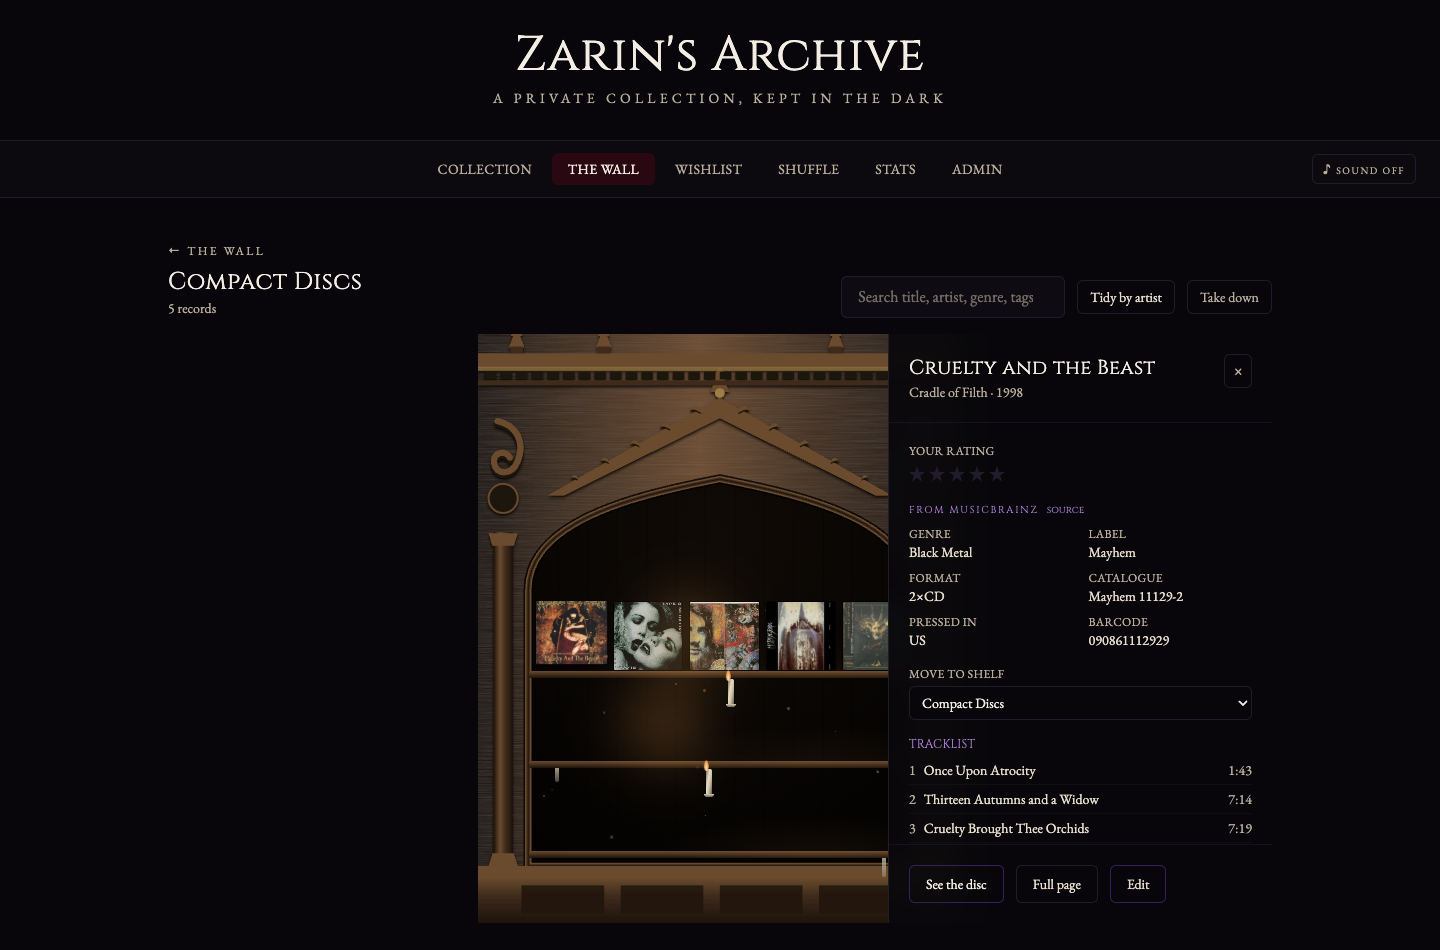
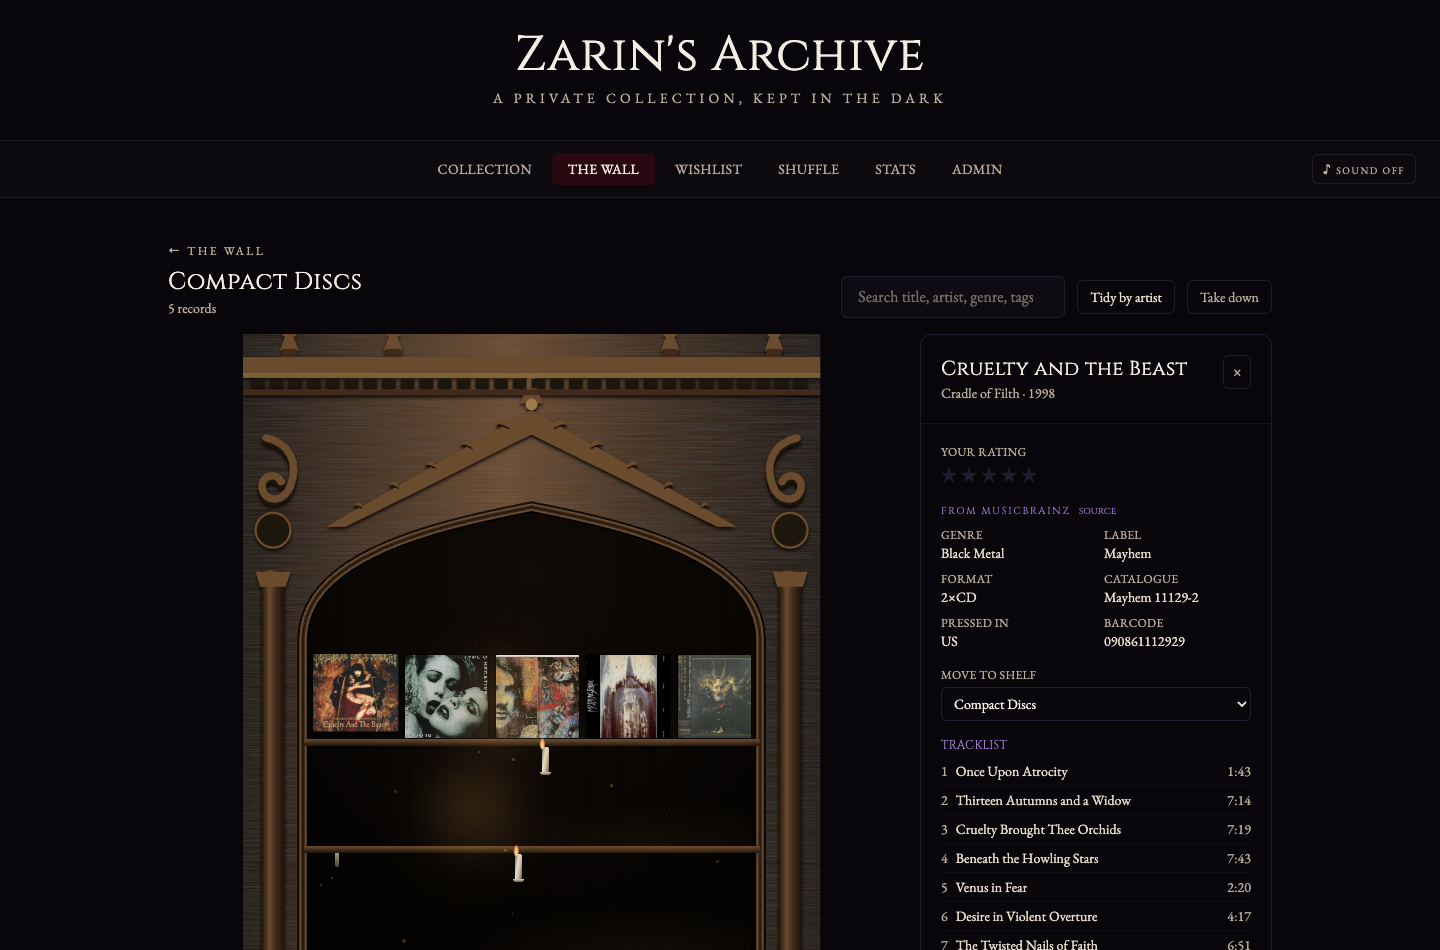
Give the case the room, and put the wall in the same one
The bookcase sat centred in a mostly empty page with the details panel
covering it whenever a record was opened — which hides the very thing you
were choosing from. The case now takes the left and grows into the height
it has, with the details beside it, sticky, and a summary of the shelf in
that column when nothing is selected so it is never simply blank.

The wall runs the full width of the window rather than sitting inset with
margins either side, which made it a poster of a wall. Three larger niches
to a row instead of four small ones: at the old size you could not see what
was standing in them.

The niches also wear the active theme now. They were purple while the
shelves behind them were oak, so stepping into one changed rooms.

diff --git a/src/components/wall/ShelfAlcove.tsx b/src/components/wall/ShelfAlcove.tsx
@@ -2,6 +2,7 @@ import { motion } from 'framer-motion'
 import { Link } from 'react-router-dom'
 import { safeImageUrl } from '../../data/safeUrl'
 import type { CollectionItem } from '../../data/schema'
+import type { ShelfTheme } from '../../scenes/themes'
 import { ARCH_CLIP_ID, ARCH_INNER_CLIP_ID } from './ArchClip'
 
 interface ShelfAlcoveProps {
@@ -10,6 +11,8 @@ interface ShelfAlcoveProps {
   count: number
   items: CollectionItem[]
   index: number
+  /** The wall wears the same room as the shelves behind it. */
+  theme: ShelfTheme
 }
 
 /**
@@ -20,9 +23,9 @@ interface ShelfAlcoveProps {
  * single flat cutout reads as a sticker, while the offset between them gives
  * the wall its thickness.
  */
-export function ShelfAlcove({ to, name, count, items, index }: ShelfAlcoveProps) {
-  const standing = items.slice(0, 6)
-  const glow = items.find((item) => item.dominantColor)?.dominantColor ?? '#8a5cc0'
+export function ShelfAlcove({ to, name, count, items, index, theme }: ShelfAlcoveProps) {
+  const standing = items.slice(0, 5)
+  const glow = items.find((item) => item.dominantColor)?.dominantColor ?? theme.candleColor
 
   return (
     <motion.div
@@ -33,9 +36,13 @@ export function ShelfAlcove({ to, name, count, items, index }: ShelfAlcoveProps)
       <Link to={to} className="group block focus:outline-none" aria-label={`Open the ${name} shelf`}>
         {/* Outer stone surround */}
         <div
-          className="relative aspect-[5/6] bg-gradient-to-b from-[#3b2d4c] via-[#2a2038] to-[#1b1426] p-[7px] transition-shadow duration-500 group-hover:shadow-[0_0_38px_-10px_var(--alcove-glow)] group-focus-visible:shadow-[0_0_38px_-10px_var(--alcove-glow)]"
+          className="relative aspect-[4/5] p-[7px] transition-shadow duration-500 group-hover:shadow-[0_0_38px_-10px_var(--alcove-glow)] group-focus-visible:shadow-[0_0_38px_-10px_var(--alcove-glow)]"
           style={
-            { clipPath: `url(#${ARCH_CLIP_ID})`, '--alcove-glow': glow } as React.CSSProperties
+            {
+              clipPath: `url(#${ARCH_CLIP_ID})`,
+              '--alcove-glow': glow,
+              background: `linear-gradient(180deg, ${theme.woodLight} 0%, ${theme.wood} 55%, ${theme.woodDark} 100%)`,
+            } as React.CSSProperties
           }
         >
           {/* Inner reveal — the recess itself */}
@@ -43,7 +50,12 @@ export function ShelfAlcove({ to, name, count, items, index }: ShelfAlcoveProps)
             className="relative h-full w-full overflow-hidden"
             style={{ clipPath: `url(#${ARCH_INNER_CLIP_ID})` }}
           >
-            <div className="absolute inset-0 bg-[radial-gradient(ellipse_at_50%_112%,#3a2a4e_0%,#170f22_54%,#0a070e_100%)]" />
+            <div
+              className="absolute inset-0"
+              style={{
+                background: `radial-gradient(ellipse at 50% 112%, ${theme.wood} 0%, ${theme.woodDark} 52%, #07050a 100%)`,
+              }}
+            />
 
             {/* The record's own colour, welling up out of the niche */}
             <div
@@ -55,7 +67,7 @@ export function ShelfAlcove({ to, name, count, items, index }: ShelfAlcoveProps)
             <div className="absolute inset-x-0 top-0 h-1/2 bg-gradient-to-b from-black/75 to-transparent" />
 
             {/* Records standing on the plank */}
-            <div className="absolute inset-x-0 bottom-[19%] flex items-end justify-center gap-[3px] px-[11%]">
+            <div className="absolute inset-x-0 bottom-[19%] flex items-end justify-center gap-[4px] px-[13%]">
               {standing.map((item, position) => (
                 <motion.div
                   key={item.id}
@@ -84,17 +96,26 @@ export function ShelfAlcove({ to, name, count, items, index }: ShelfAlcoveProps)
             </div>
 
             {/* The plank, with its lit front edge */}
-            <div className="absolute inset-x-[6%] bottom-[16.5%] h-[7px] rounded-[2px] bg-gradient-to-b from-[#5a4770] via-[#33254a] to-[#1c1329]" />
+            <div
+              className="absolute inset-x-[6%] bottom-[16.5%] h-[7px] rounded-[2px]"
+              style={{
+                background: `linear-gradient(180deg, ${theme.woodLight}, ${theme.wood} 45%, ${theme.woodDark})`,
+              }}
+            />
 
             {/* Candle */}
             <div className="absolute bottom-[3%] left-1/2 -translate-x-1/2">
               <div className="mx-auto h-7 w-[8px] rounded-t-[2px] bg-gradient-to-b from-[#efe3ca] via-[#cabfa6] to-[#8e836d]" />
               <motion.div
-                className="absolute -top-[9px] left-1/2 h-[13px] w-[6px] -translate-x-1/2 rounded-[50%] bg-[#ffbc6a]"
+                className="absolute -top-[9px] left-1/2 h-[13px] w-[6px] -translate-x-1/2 rounded-[50%]"
+                style={{ background: theme.candleColor }}
                 animate={{ scaleY: [1, 1.14, 0.94, 1.08, 1], opacity: [0.9, 1, 0.86, 1, 0.9] }}
                 transition={{ duration: 2.6, repeat: Infinity, ease: 'easeInOut' }}
               />
-              <div className="absolute -top-10 left-1/2 h-20 w-20 -translate-x-1/2 rounded-full bg-[#ff9a3c] opacity-30 blur-2xl transition-opacity duration-700 group-hover:opacity-70" />
+              <div
+                className="absolute -top-10 left-1/2 h-20 w-20 -translate-x-1/2 rounded-full opacity-30 blur-2xl transition-opacity duration-700 group-hover:opacity-70"
+                style={{ background: theme.candleColor }}
+              />
             </div>
 
             {count === 0 && (
@@ -110,7 +131,7 @@ export function ShelfAlcove({ to, name, count, items, index }: ShelfAlcoveProps)
         {/* Brass nameplate, screwed to the wall beneath the niche */}
         <div className="relative mx-auto -mt-4 w-[88%]">
           <div className="relative rounded-[3px] border border-[#4a3c22] bg-gradient-to-b from-[#9a7c4d] via-[#75603a] to-[#4e3d24] px-3 py-1.5 text-center shadow-[0_5px_12px_-4px_rgba(0,0,0,0.95)] transition-[filter] duration-500 group-hover:brightness-115">
-            <span className="block truncate font-display text-[0.68rem] uppercase tracking-[0.18em] text-[#f4e9d0]">
+            <span className="block truncate font-display text-[0.74rem] uppercase tracking-[0.16em] text-[#f4e9d0]">
               {name}
             </span>
             {[0, 1].map((side) => (

diff --git a/src/pages/WallPage.tsx b/src/pages/WallPage.tsx
@@ -6,6 +6,7 @@ import { ThemePicker } from '../components/wall/ThemePicker'
 import { UNFILED_SLUG } from '../data/shelfRoutes'
 import type { CollectionItem } from '../data/schema'
 import { useCollectionStore } from '../store/useCollectionStore'
+import { themeById } from '../scenes/themes'
 import { useUiStore } from '../store/useUiStore'
 
 export function WallPage() {
@@ -13,7 +14,8 @@ export function WallPage() {
   const shelves = useCollectionStore((state) => state.shelves)
   const addShelf = useCollectionStore((state) => state.addShelf)
   const [newName, setNewName] = useState('')
-  const theme = useUiStore((state) => state.theme)
+  const themeId = useUiStore((state) => state.theme)
+  const theme = themeById(themeId)
   const setTheme = useUiStore((state) => state.setTheme)
 
   const owned = useMemo(() => items.filter((item) => !item.wishlist), [items])
@@ -48,9 +50,11 @@ export function WallPage() {
     <PageTransition>
       <ArchClip />
 
-      <div className="stone-wall -mx-6 -mt-10 space-y-10 rounded-b-2xl px-6 pb-12 pt-10 sm:px-10">
+      {/* The wall runs the full width of the window: a wall inset in a page
+          with margins either side is a poster of a wall. */}
+      <div className="stone-wall -mx-6 -mt-10 space-y-10 px-6 pb-14 pt-10 sm:px-10 lg:px-14">
         <header className="text-center">
-          <h2 className="font-display text-2xl tracking-wide text-bone-100 sm:text-3xl">
+          <h2 className="font-blackletter text-3xl tracking-wide text-bone-100 sm:text-4xl">
             The Wall
           </h2>
           <p className="mx-auto mt-2 max-w-md text-sm text-bone-400">
@@ -58,7 +62,9 @@ export function WallPage() {
           </p>
         </header>
 
-        <div className="grid grid-cols-2 gap-x-5 gap-y-8 sm:grid-cols-3 lg:grid-cols-4">
+        {/* Fewer, larger niches. Four to a row made each one too small to
+            see what was standing in it. */}
+        <div className="mx-auto grid max-w-5xl grid-cols-2 gap-x-8 gap-y-10 sm:grid-cols-3">
           {[...shelves]
             .sort((a, b) => a.order - b.order)
             .map((shelf, index) => (
@@ -69,6 +75,7 @@ export function WallPage() {
                 count={(grouped.get(shelf.id) ?? []).length}
                 items={grouped.get(shelf.id) ?? []}
                 index={index}
+                theme={theme}
               />
             ))}
 
@@ -79,11 +86,12 @@ export function WallPage() {
               count={unfiled.length}
               items={unfiled}
               index={shelves.length}
+              theme={theme}
             />
           )}
         </div>
 
-        <ThemePicker value={theme} onChange={setTheme} />
+        <ThemePicker value={themeId} onChange={setTheme} />
 
         <form onSubmit={handleCreate} className="mx-auto flex max-w-sm gap-2">
           <input

diff --git a/src/components/shelf/CaseDetailPanel.tsx b/src/components/shelf/CaseDetailPanel.tsx
@@ -20,13 +20,16 @@ function duration(ms: number | null): string {
 interface CaseDetailPanelProps {
   item: CollectionItem | null
   onClose: () => void
+  /** Shown when nothing is selected, so the column is never simply blank. */
+  shelfName?: string
+  total?: number
 }
 
 /**
  * Details live in an HTML panel rather than as 3D text: at shelf distance,
  * rendered type is unreadable, and a tracklist needs to be selectable.
  */
-export function CaseDetailPanel({ item, onClose }: CaseDetailPanelProps) {
+export function CaseDetailPanel({ item, onClose, shelfName, total }: CaseDetailPanelProps) {
   const updateItem = useCollectionStore((state) => state.updateItem)
   const shelves = useCollectionStore((state) => state.shelves)
   const moveItemToShelf = useCollectionStore((state) => state.moveItemToShelf)
@@ -34,18 +37,35 @@ export function CaseDetailPanel({ item, onClose }: CaseDetailPanelProps) {
   const [viewingDisc, setViewingDisc] = useState(false)
 
   return (
-    <AnimatePresence>
-      {item && (
+    <AnimatePresence mode="wait">
+      {!item ? (
+        <motion.aside
+          key="empty"
+          initial={{ opacity: 0 }}
+          animate={{ opacity: 1 }}
+          exit={{ opacity: 0 }}
+          className="rounded-xl border border-void-700 bg-void-900/40 p-6 text-center"
+        >
+          <p className="font-display text-sm uppercase tracking-[0.18em] text-velvet-300">
+            {shelfName ?? 'This shelf'}
+          </p>
+          <p className="mt-2 text-sm text-bone-400">
+            {total === 0
+              ? 'Nothing on it yet.'
+              : `${total} ${total === 1 ? 'record' : 'records'}. Take one down to look at it.`}
+          </p>
+        </motion.aside>
+      ) : (
         <motion.aside
           key={item.id}
-          initial={{ x: 40, opacity: 0 }}
-          animate={{ x: 0, opacity: 1 }}
-          exit={{ x: 40, opacity: 0 }}
+          initial={{ opacity: 0, y: 12 }}
+          animate={{ opacity: 1, y: 0 }}
+          exit={{ opacity: 0, y: -8 }}
           transition={{ type: 'spring', stiffness: 260, damping: 30 }}
-          className="pointer-events-auto absolute right-0 top-0 z-10 flex h-full w-full max-w-sm flex-col border-l border-void-700 bg-void-950/92 backdrop-blur-md"
+          className="flex max-h-[78vh] flex-col overflow-hidden rounded-xl border border-void-700 bg-void-950/92"
           style={
             item.dominantColor
-              ? { boxShadow: `inset 3px 0 24px -12px ${item.dominantColor}` }
+              ? { boxShadow: `inset 0 3px 26px -14px ${item.dominantColor}` }
               : undefined
           }
         >

diff --git a/src/pages/ShelfPage.tsx b/src/pages/ShelfPage.tsx
@@ -155,14 +155,24 @@ export function ShelfPage() {
             }
           />
         ) : (
-          <div className="relative">
+          <div className="grid gap-6 lg:grid-cols-[minmax(0,1fr)_22rem] lg:items-start">
             <ShelfCase
               items={shown}
               theme={theme}
               selectedId={selectedId}
               onSelect={(item) => setSelectedId((current) => (current === item.id ? null : item.id))}
             />
-            <CaseDetailPanel item={selected} onClose={() => setSelectedId(null)} />
+
+            {/* Beside the case rather than over it: covering the shelf to read
+                about one record hides the thing you were choosing from. */}
+            <div className="lg:sticky lg:top-6">
+              <CaseDetailPanel
+                item={selected}
+                onClose={() => setSelectedId(null)}
+                shelfName={shelfName}
+                total={onShelf.length}
+              />
+            </div>
           </div>
         )}
       </div>

diff --git a/src/components/bookcase/ShelfCase.tsx b/src/components/bookcase/ShelfCase.tsx
@@ -159,7 +159,7 @@ export function ShelfCase({ items, theme, selectedId, onSelect }: ShelfCaseProps
     <div
       className="relative mx-auto"
       style={{
-        width: `min(100%, calc(min(62vh, 760px) * 1000 / ${frameHeight}))`,
+        width: `min(100%, calc(min(74vh, 900px) * 1000 / ${frameHeight}))`,
         aspectRatio: `1000 / ${frameHeight}`,
         perspective: '1100px',
       }}
